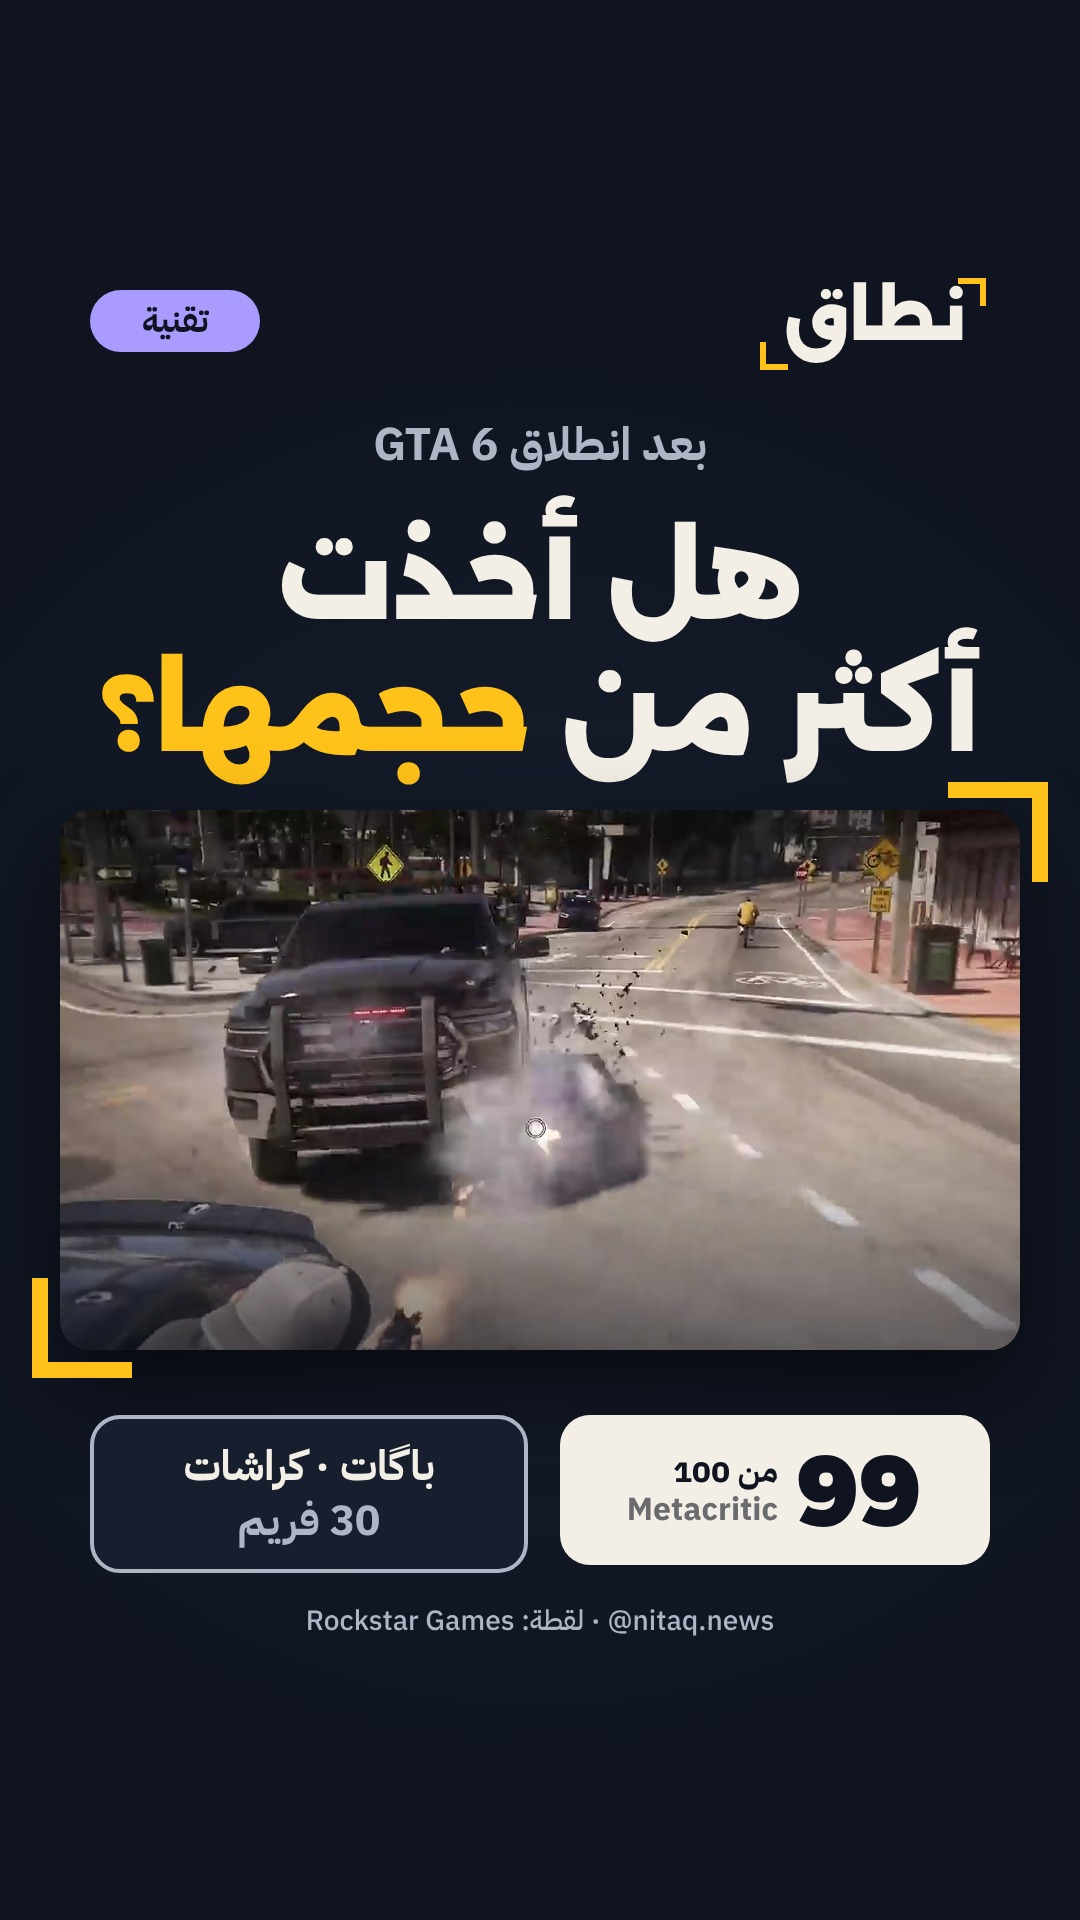
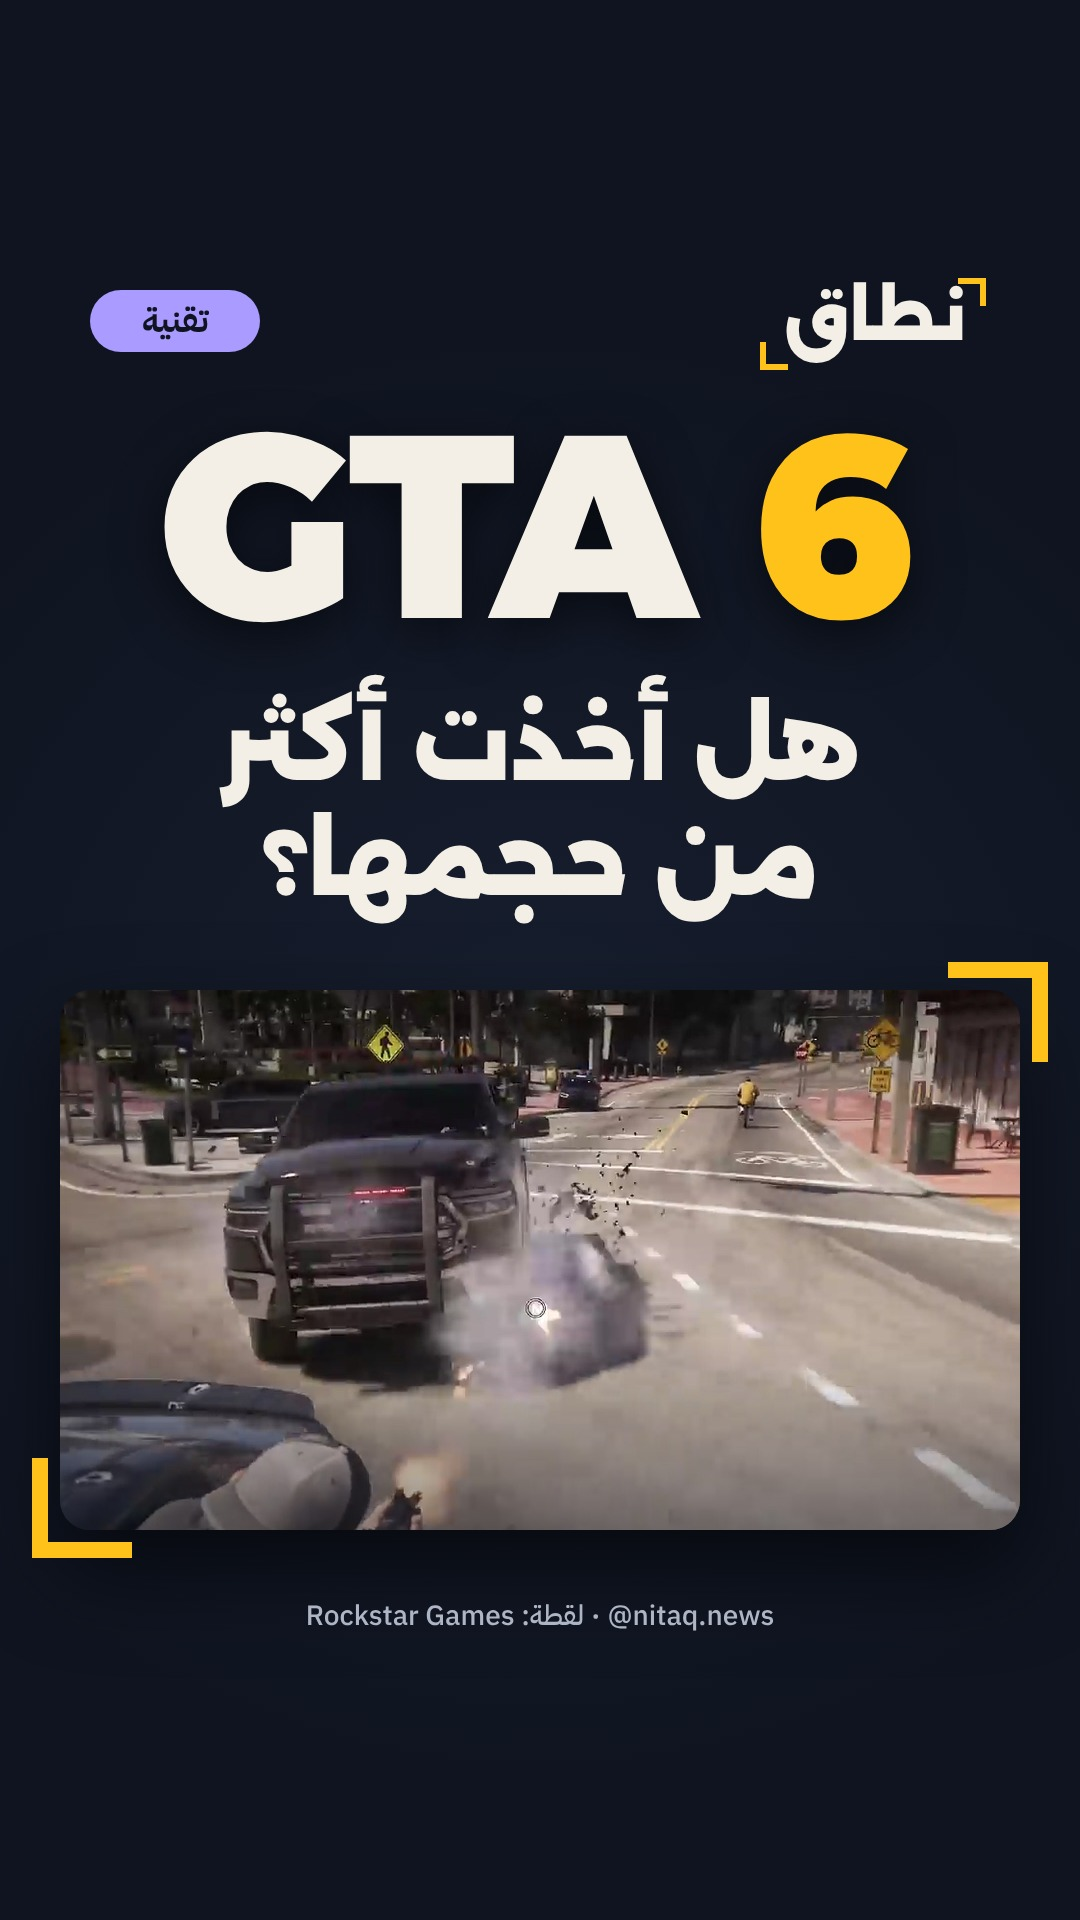
GTA 6 reel cover: big GTA 6 title, drop the score/complaint cards
Claude-Session: https://claude.ai/code/session_01AqNRMLNh7SrKwPZHKcvV1o

diff --git a/reels/gta6-hype/cover.html b/reels/gta6-hype/cover.html
@@ -23,18 +23,15 @@ R.box(S, 0, 0, 1080, 1920, { background: `radial-gradient(110% 60% at 50% 55%, $
 /* top: category badge + logo (inside the grid crop) */
 txt(S, 90, 290, 170, "تقنية", { fontSize: "34px", fontWeight: 700, color: INK, background: TECH, borderRadius: "99px", lineHeight: "62px" }, "t b");
 const lg = R.box(S, 760, 275, 230, 100); txt(lg, 0, 6, 230, "نطاق", { fontSize: "64px" }); corners(760, 278, 226, 92, 28, 6);
+/* the hero: the game's name, big; the 6 carries the one yellow accent */
+txt(S, 0, 395, 1080, `<span class="en">GTA <span style="color:${SIG}">6</span></span>`, { fontSize: "260px", lineHeight: "1", letterSpacing: "-4px", textShadow: "0 14px 50px rgba(0,0,0,.55)" });
 /* the question */
-txt(S, 60, 410, 960, `بعد انطلاق <span class="en">GTA 6</span>`, { fontSize: "46px", fontWeight: 700, color: ASH }, "t b");
-txt(S, 40, 515, 1000, `هل أخذت<br>أكثر من <span style="color:${SIG}">حجمها؟</span>`, { fontSize: "108px", lineHeight: "1.22", whiteSpace: "nowrap" });
+txt(S, 40, 690, 1000, `هل أخذت أكثر<br>من حجمها؟`, { fontSize: "92px", lineHeight: "1.25", whiteSpace: "nowrap" });
 /* the shot: a gameplay frame from the official trailer, framed by the brand's corners */
-const shot = R.box(S, 60, 810, 960, 540, { borderRadius: "30px", overflow: "hidden", background: `url(cover-bg.jpg) center/cover`, boxShadow: "0 40px 90px rgba(0,0,0,.6)" });
-R.box(shot, 0, 0, 960, 540, { background: "linear-gradient(rgba(15,20,32,0) 60%, rgba(15,20,32,.55))" });
-corners(32, 782, 1016, 596, 100, 16);
-/* the two sides of the story */
-const card = (x, y, w, html, st) => { const c = R.box(S, x, y, w, 150, { display: "flex", alignItems: "center", justifyContent: "center", gap: "20px", borderRadius: "30px", direction: "rtl", ...st }); c.innerHTML = html; return c; };
-card(560, 1415, 430, `<span class="h" style="color:${INK};font-size:100px">99</span><span class="b" style="color:${INK};font-size:32px;font-weight:700;line-height:1.2">من 100<br><span class="en" style="opacity:.6">Metacritic</span></span>`, { background: PAPER });
-card(90, 1415, 430, `<span class="b" style="font-size:42px;font-weight:700;line-height:1.3;text-align:center">باگات · كراشات<br><span style="color:${ASH}"><span class="en">30</span> فريم</span></span>`, { background: INK2, border: `4px solid ${ASH}` });
-txt(S, 60, 1600, 960, `<span class="en">@nitaq.news</span> · لقطة: <span class="en">Rockstar Games</span>`, { fontSize: "28px", fontWeight: 500, color: ASH }, "t b");
+const shot = R.box(S, 60, 990, 960, 540, { borderRadius: "30px", overflow: "hidden", background: `url(cover-bg.jpg) center/cover`, boxShadow: "0 40px 90px rgba(0,0,0,.6)" });
+R.box(shot, 0, 0, 960, 540, { background: "linear-gradient(rgba(15,20,32,0) 65%, rgba(15,20,32,.45))" });
+corners(32, 962, 1016, 596, 100, 16);
+txt(S, 60, 1595, 960, `<span class="en">@nitaq.news</span> · لقطة: <span class="en">Rockstar Games</span>`, { fontSize: "28px", fontWeight: 500, color: ASH }, "t b");
 </script>
 </body>
 </html>
